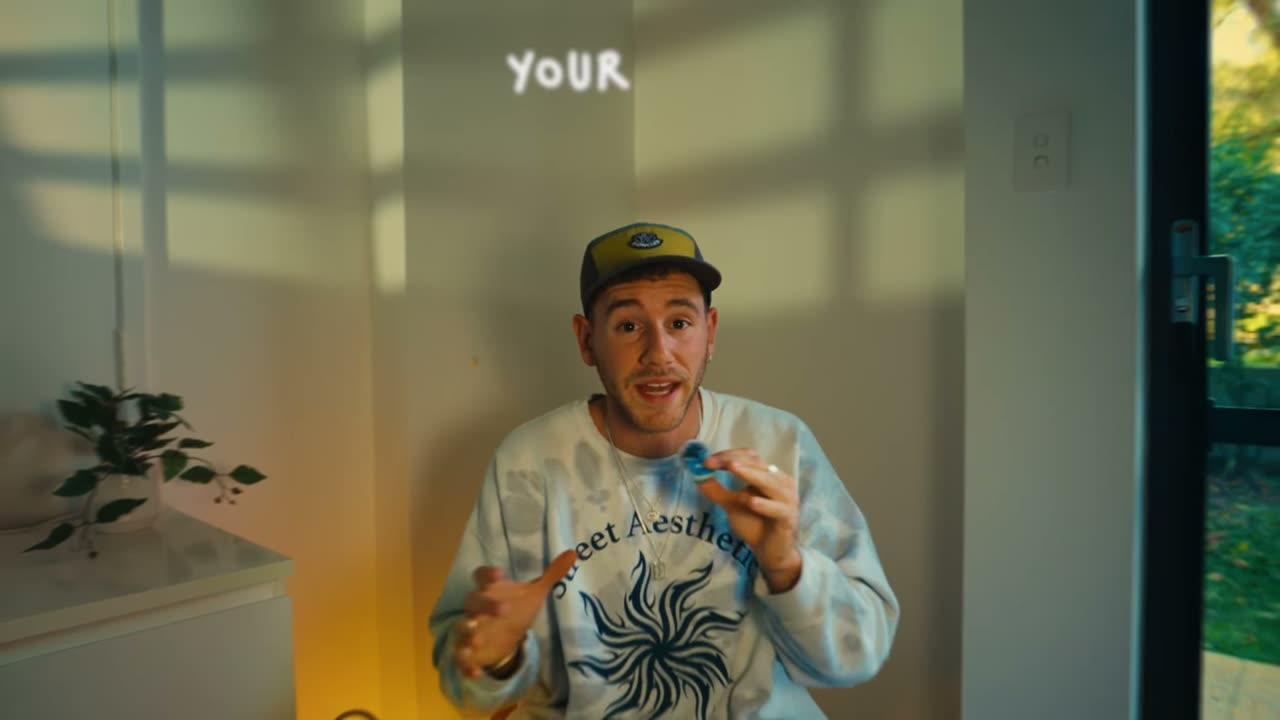
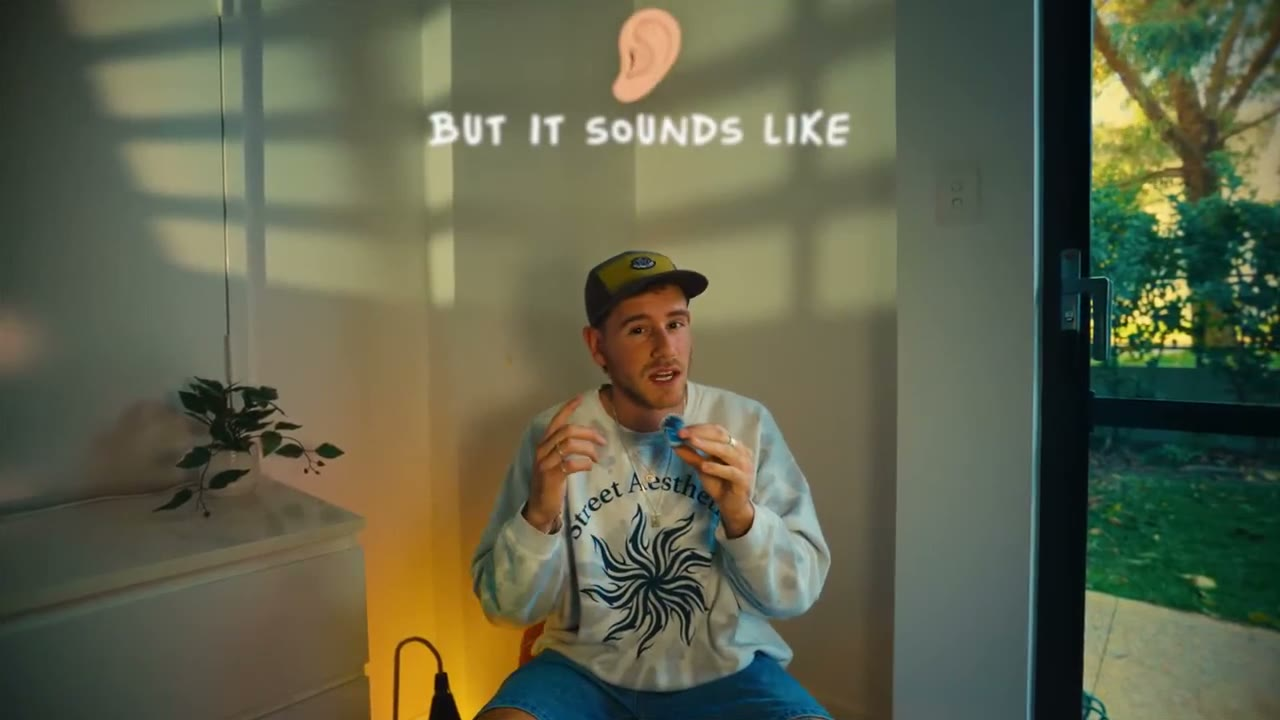
SFX mobile: content poster for before/after (was black), smaller headers, compact sample rows, first CTA sub sentence on one line

diff --git a/sfx/index.html b/sfx/index.html
@@ -845,10 +845,10 @@
       .hero__video--mobile { display: block; }
       .hero__media .media-placeholder { display: none; }
       .hero__media::after { background: linear-gradient(to bottom, rgba(12,12,12,0.7) 0%, rgba(12,12,12,0.5) 45%, rgba(12,12,12,0.92) 100%); }
-      .hero__title { font-size: 2.4rem; }
+      .hero__title { font-size: 2.05rem; }
       .trust-bar__inner { display: grid; grid-template-columns: 1fr 1fr; gap: 8px; }
       .trust-bar__item { padding: 11px 14px; justify-content: center; }
-      .section-title { font-size: 1.55rem; }
+      .section-title { font-size: 1.4rem; }
       .bundle { margin-bottom: 80px; }
       .bundle__card { padding-bottom: 110px; }
       .bundle__vid { width: 50%; bottom: -22px; }
@@ -865,7 +865,11 @@
       .for-col { padding: 18px 16px; }
       .for-list li { font-size: 12px; line-height: 1.4; gap: 9px; }
       .audio-row { flex-wrap: wrap; }
-      .a-wave { order: 5; flex-basis: 100%; width: 100%; margin-top: 4px; }
+      .a-wave { order: 5; flex-basis: 100%; width: 100%; margin-top: 2px; height: 24px; }
+      .audio-grid { gap: 8px; margin-top: 28px; }
+      .audio-row { padding: 9px 12px; gap: 10px; }
+      .a-play { width: 32px; height: 32px; }
+      .final-cta__sub { font-size: 12px; text-wrap: normal; }
       .hero__eyebrow { font-size: 10px; letter-spacing: 0.03em; }
       .ba-knob { width: 38px; height: 38px; }
       .ba-label { font-size: 10px; padding: 5px 9px; top: 10px; }
@@ -877,7 +881,7 @@
       .about-copy p, .about-copy .section-title { text-shadow: 0 1px 10px rgba(12,12,12,0.85), 0 0 4px rgba(12,12,12,0.7); }
       .about-copy { position: relative; z-index: 1; padding-right: 125px; }
       .about-copy .section-label, .about-copy .section-title, .about-copy .section-sub { text-align: left; }
-      .final-cta__title { font-size: 1.7rem; }
+      .final-cta__title { font-size: 1.5rem; }
       .mb-only { display: block; }
       .section { margin-bottom: 32px; }
       .divider { margin-bottom: 32px; }